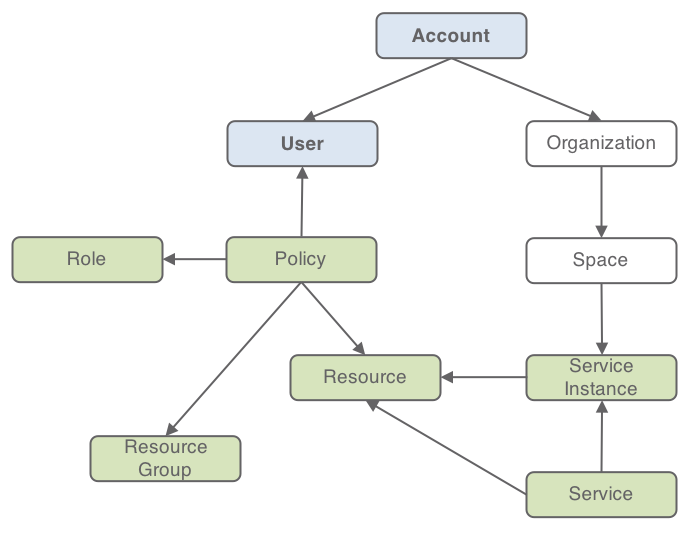
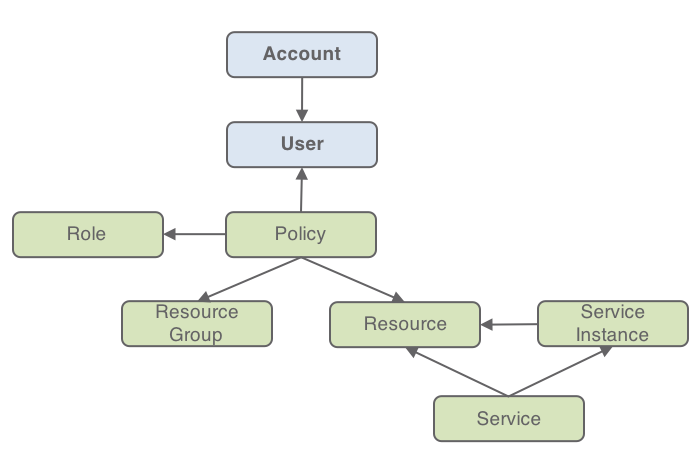
use separate images for IAM and Cloud Foundry

diff --git a/users-teams-applications.md b/users-teams-applications.md
@@ -79,10 +79,15 @@ IBM Cloud Identity and Access Management (IAM) enables you to securely authentic
 
 A **policy** assigns a user or service ID one or more **roles** with a combination of attributes that define the scope of access. The policy can provide access to a single service down to the instance level, or the policy can apply to a set of resources organized together in a resource group. Depending on the user roles that you assign, the user or service ID is allowed varying levels of access for completing platform management tasks or accessing a service by using the UI or performing specific types of API calls.
 
-  <img src="./images/solution20-users-teams-applications/iam-model.png" height="300" />
+<p style="text-align: center;">
+  <img src="./images/solution20-users-teams-applications/iam-model.png" width="50%" />
+</p>
 
 At this time, not all services in the IBM Cloud catalog can be managed by using IAM. For these services, you can continue to use Cloud Foundry by providing users access to the organization and space to which the instance belongs with a Cloud Foundry role assigned to define the level of access that is allowed.
-{:tip}
+
+<p style="text-align: center;">
+  <img src="./images/solution20-users-teams-applications/cloudfoundry-model.png" width="50%" />
+</p>
 
 ## Create project environments
 
